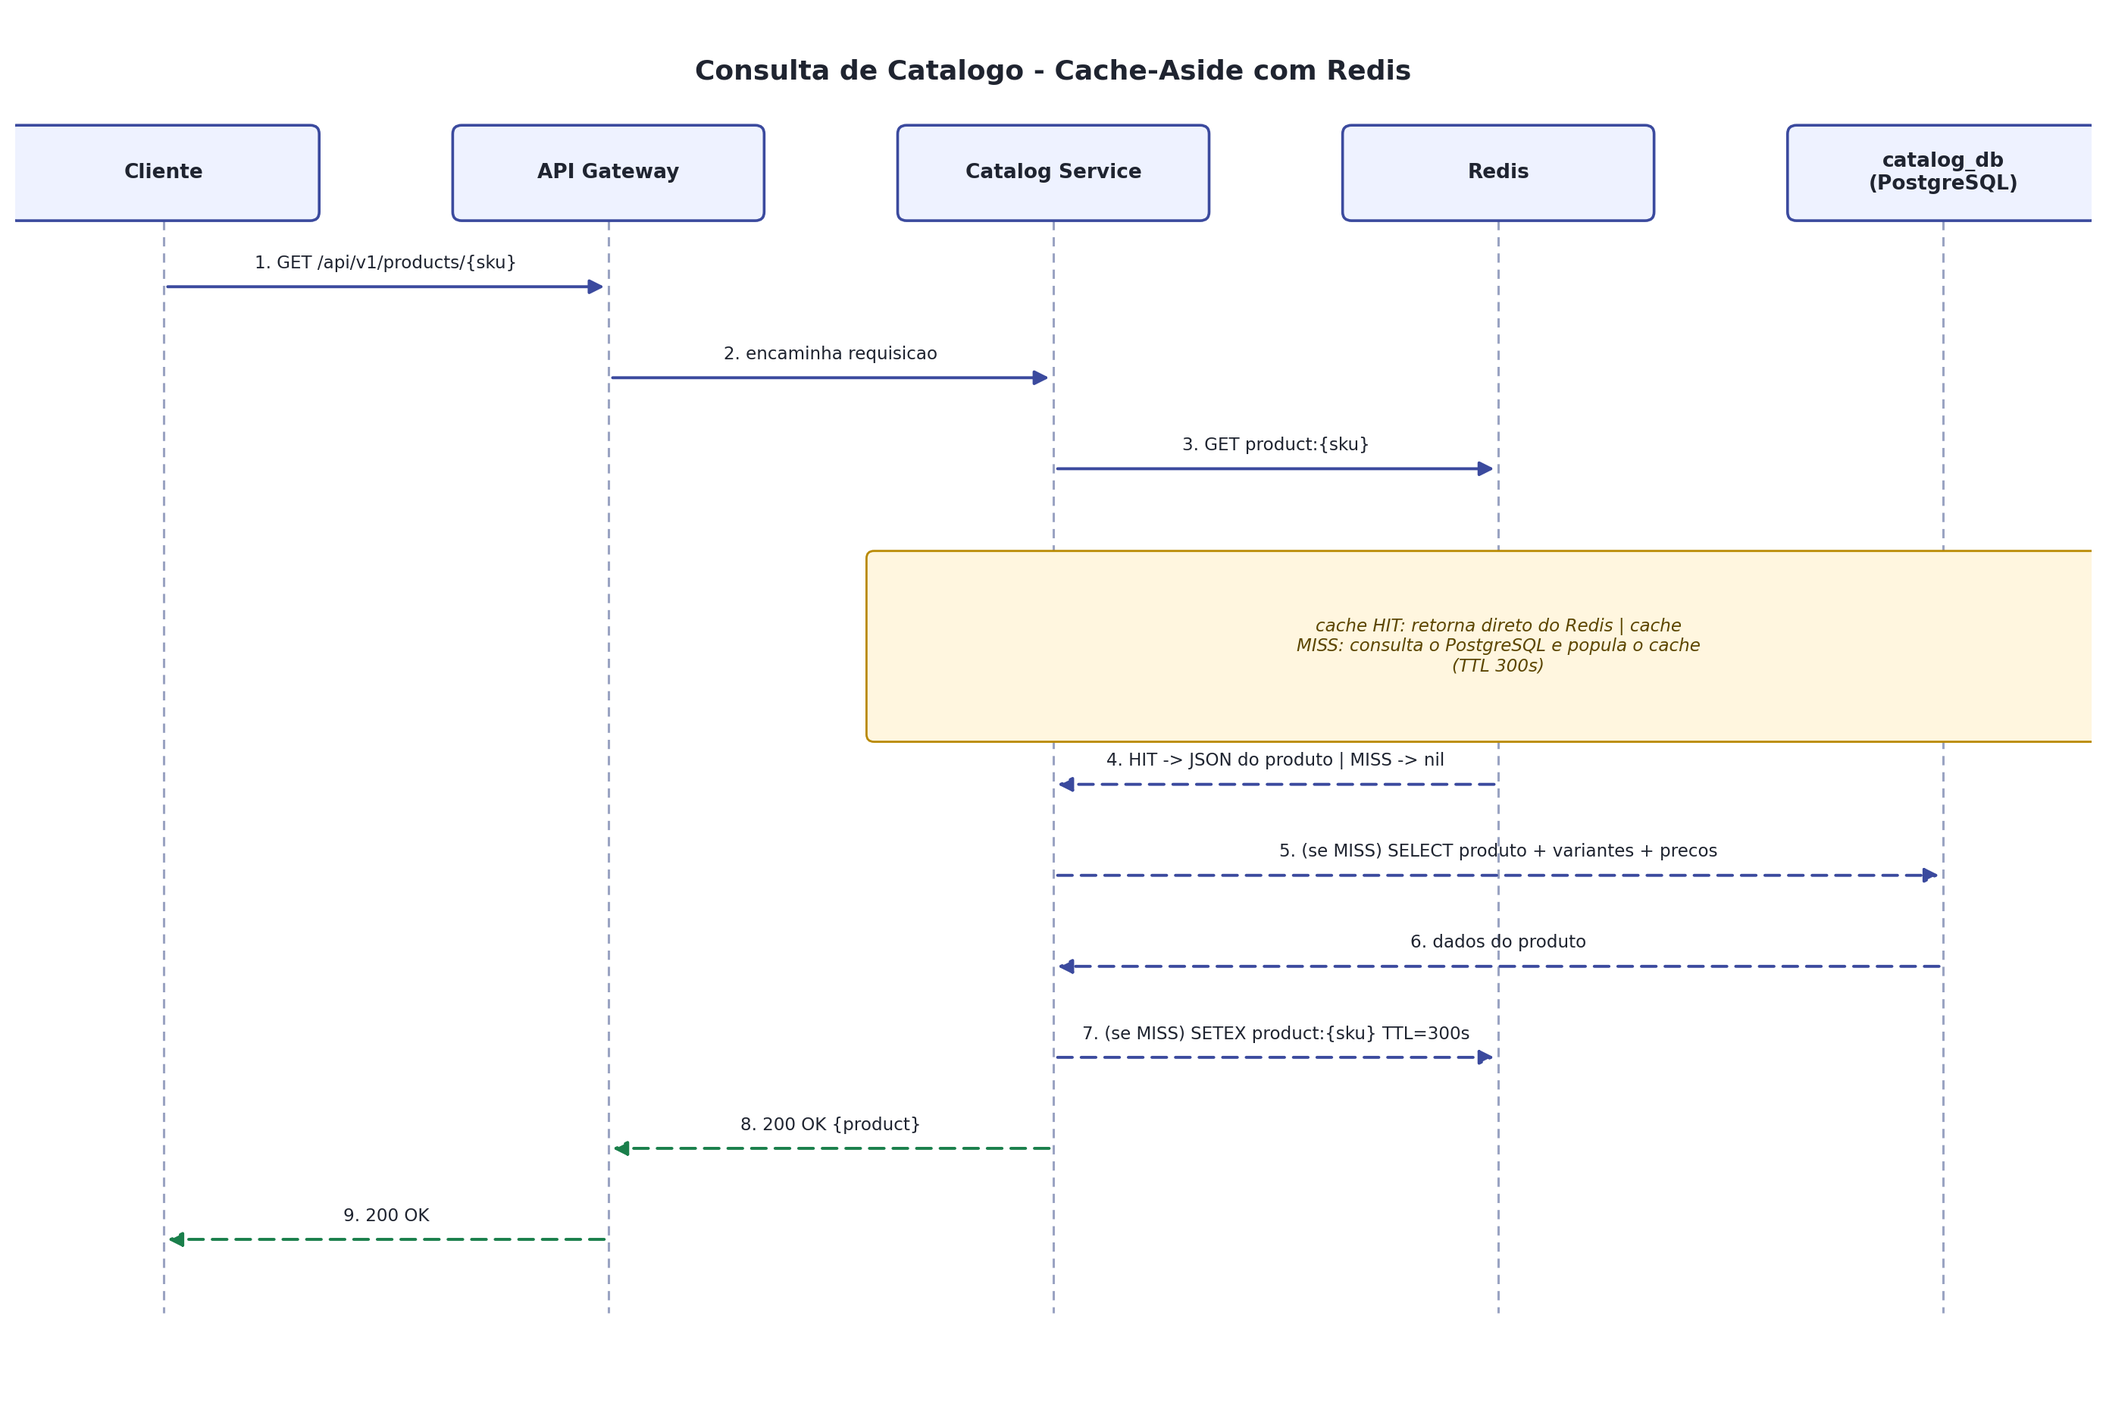
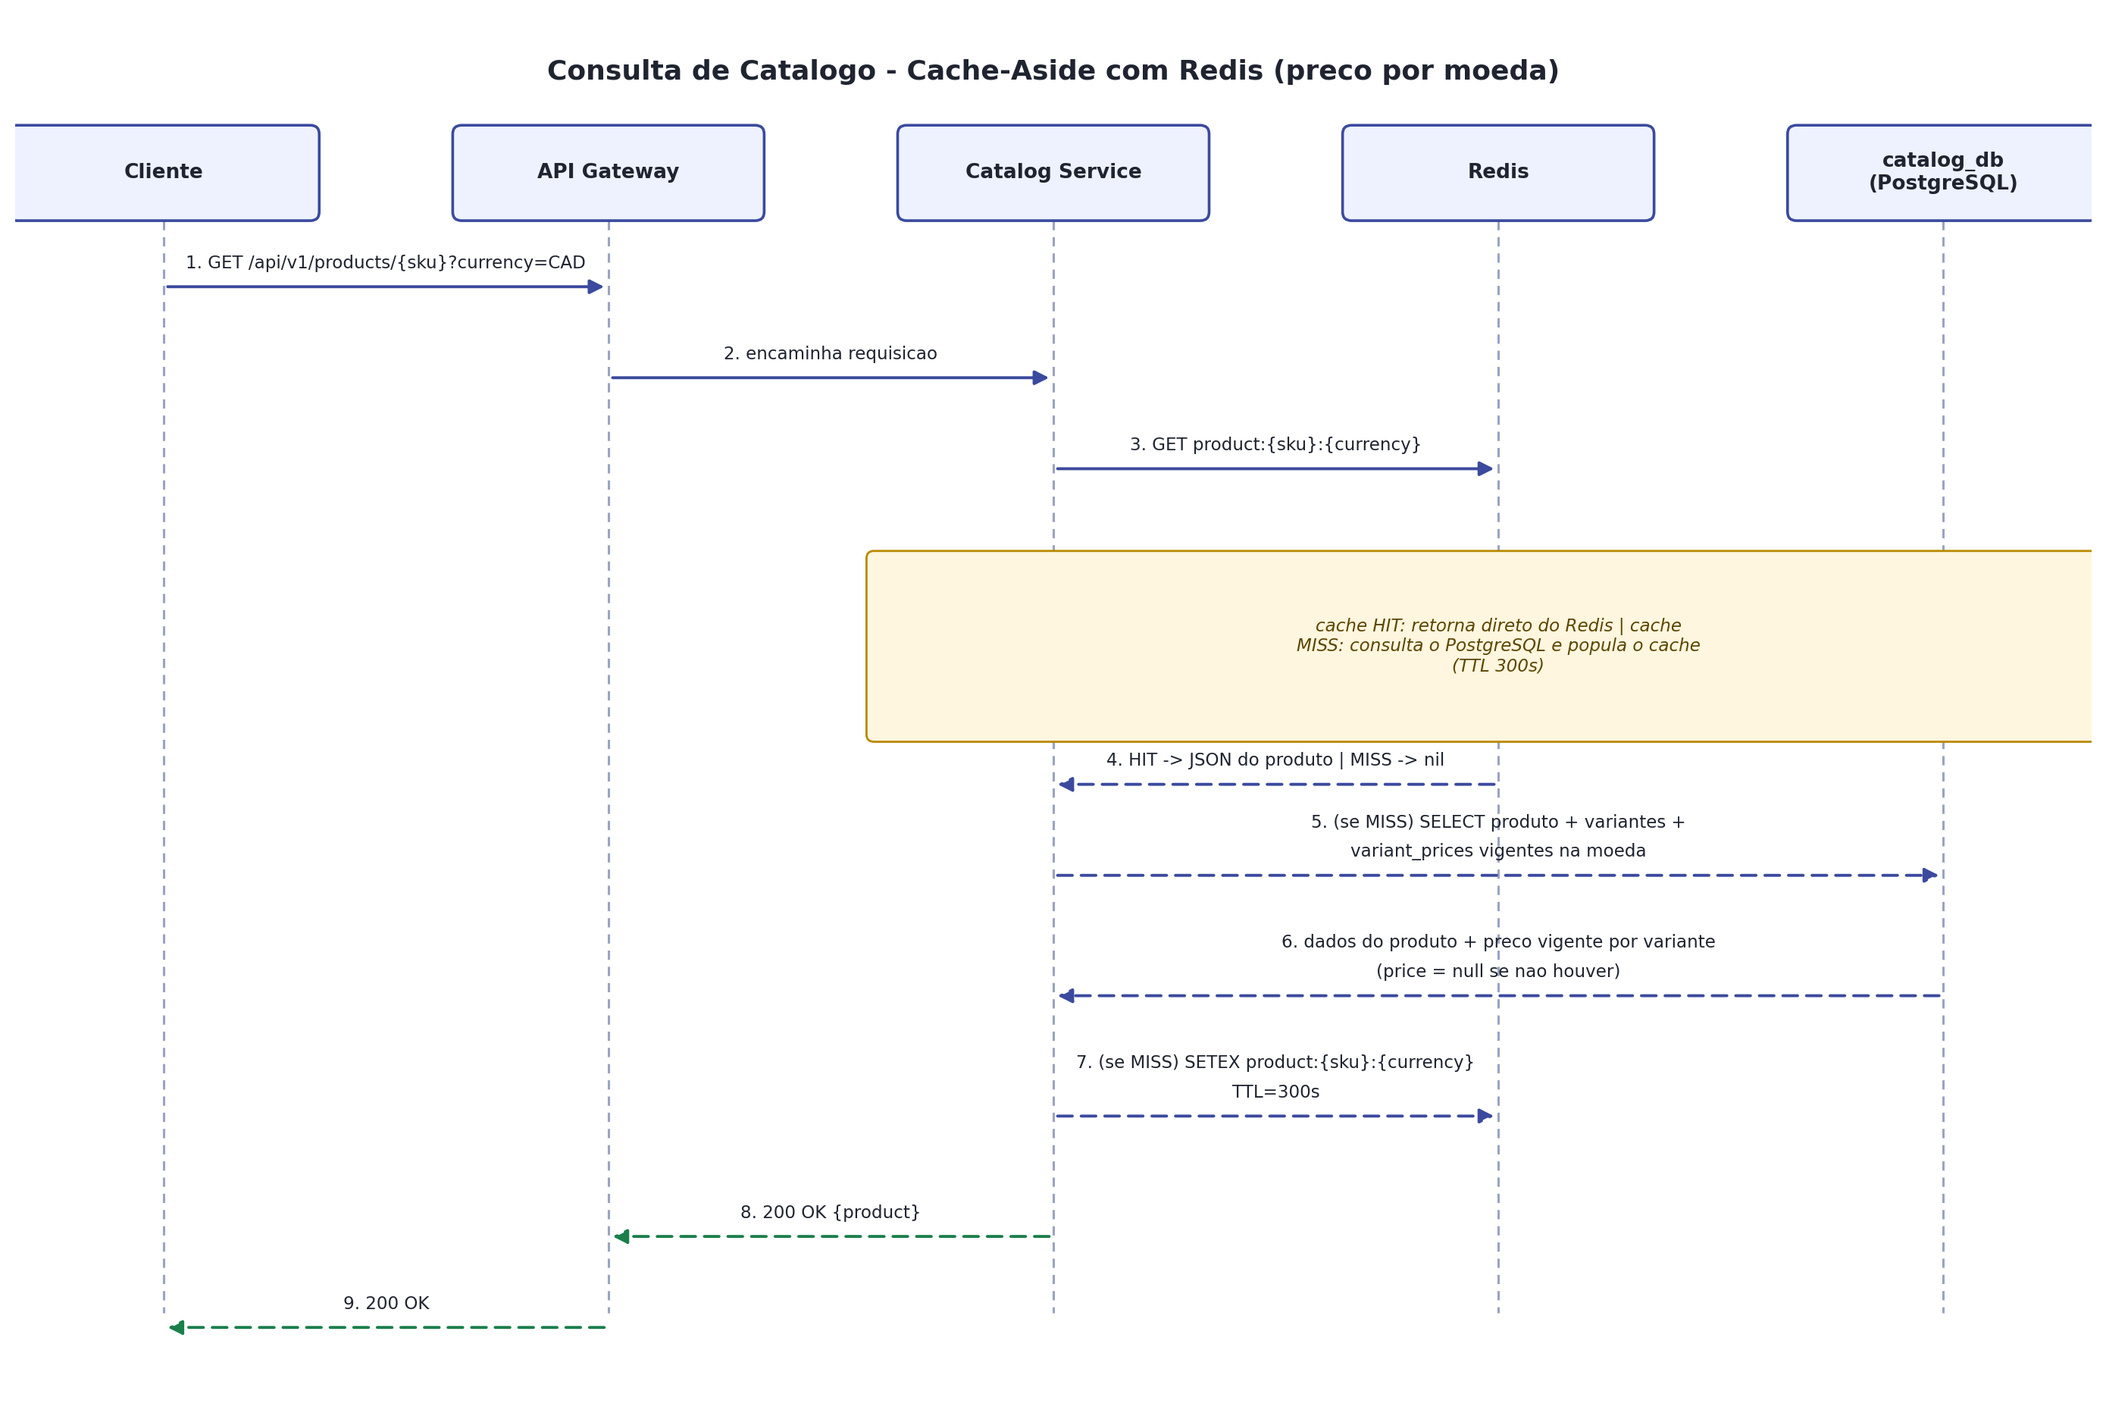
Adjusting price history

diff --git a/docs/architecture/OrbitCommerce-Arquitetura-Obsidian.md b/docs/architecture/OrbitCommerce-Arquitetura-Obsidian.md
@@ -596,10 +596,10 @@ Resposta: `204 No Content` _Erros:_ `401` não autenticado · `403` usuário aut
 
 #### 3.3.1 Responsabilidades
 
-- Manutenção do catálogo de categorias, produtos e variantes (SKUs) com seus preços vigentes.
+- Manutenção do catálogo de categorias, produtos e variantes (SKUs) com seus preços vigentes, **um por moeda** <!-- [NOVO] a variante é identidade; o preço vive em `variant_prices` -->.
 - Exposição de busca e listagem paginada de produtos para o frontend, com alta taxa de leitura.
 - Cache-aside em Redis para reduzir latência e carga no banco em consultas de produto individual.
-- Manutenção de histórico de preços para fins de auditoria e exibição de "preço anterior".
+- Manutenção de histórico de preços **por moeda** para fins de auditoria e exibição de "preço anterior" <!-- [NOVO] o histórico são as linhas encerradas de `variant_prices` -->.
 - Publicação de eventos de alteração de preço/estoque de catálogo consumidos por outros serviços (ex.: invalidação de cache de terceiros, motor de busca).
 
 #### 3.3.2 Stack Específica
@@ -608,7 +608,7 @@ Resposta: `204 No Content` _Erros:_ `401` não autenticado · `403` usuário aut
 |---|---|
 |Framework|Spring Boot 4 (Spring Web MVC, Spring Data JPA)|
 |Banco de dados|PostgreSQL 16 — schema `catalog_db`|
-|Cache|Redis — chave `product:{sku}`, TTL 300s, invalidação ativa em updates|
+|Cache|Redis — chave `product:{sku}:{currency}` <!-- [NOVO] chave por moeda -->, TTL 300s, invalidação ativa em updates (cadastro, atualização e encerramento de preço invalidam a chave da moeda afetada)|
 |Busca (evolução futura)|Desenhado para admitir indexação em Elasticsearch/Amazon OpenSearch Service sem alterar o modelo de domínio|
 
 ```mermaid
@@ -635,11 +635,10 @@ classDiagram
         +Instant updatedAt
     }
 
+    %% [ATUALIZADO] priceCents/currency removidos da variante — o preço agora vive em VariantPrice (um por moeda)
     class ProductVariant {
         +UUID id
         +UUID productId
-        +Long priceCents
-        +String currency
         +String stockKeepingUnit
     }
 
@@ -659,9 +658,11 @@ classDiagram
         +Integer position
     }
 
-    class PriceHistory {
+    %% [NOVO] substitui PriceHistory: uma linha por variante+moeda+período; effectiveTo nulo = sem data de fim
+    class VariantPrice {
         +UUID id
         +UUID productVariantId
+        +String currency
         +Long priceCents
         +Instant effectiveFrom
         +Instant effectiveTo
@@ -679,7 +680,7 @@ classDiagram
     Product "1" --> "1..*" ProductVariant
     Product "1" --> "0..*" ProductImage
     ProductVariant "1" --> "1..*" VariantAttribute
-    ProductVariant "1" --> "0..*" PriceHistory
+    ProductVariant "1" --> "0..*" VariantPrice
     Product ..> ProductStatus
 ```
 
@@ -713,8 +714,7 @@ CREATE TABLE product_variants (
     id UUID PRIMARY KEY DEFAULT gen_random_uuid(),
     product_id UUID NOT NULL REFERENCES products(id) ON DELETE CASCADE,
     -- [ATUALIZADO] attribute_name/attribute_value removidos daqui — ver variant_attributes abaixo
-    price_cents BIGINT NOT NULL,
-    currency CHAR(3) NOT NULL DEFAULT 'CAD',
+    -- [ATUALIZADO] price_cents/currency removidos daqui — ver variant_prices abaixo
     stock_keeping_unit VARCHAR(40) NOT NULL UNIQUE
 );
 
@@ -736,12 +736,31 @@ CREATE TABLE product_images (
     position INT NOT NULL DEFAULT 0
 );
 
-CREATE TABLE price_history (
+-- [NOVO] necessário para usar UUID/CHAR em exclusion constraint com gist
+CREATE EXTENSION IF NOT EXISTS btree_gist;
+
+-- [NOVO] substitui price_history: 1 linha por variante + moeda + período de vigência.
+-- Preço vigente = effective_from <= now() AND (effective_to IS NULL OR effective_to > now()).
+-- Linhas com effective_to no passado formam o histórico. Sem linha vigente para uma moeda,
+-- a variante não é vendida naquela moeda.
+CREATE TABLE variant_prices (
     id UUID PRIMARY KEY DEFAULT gen_random_uuid(),
     product_variant_id UUID NOT NULL REFERENCES product_variants(id) ON DELETE CASCADE,
-    price_cents BIGINT NOT NULL,
+    currency CHAR(3) NOT NULL, -- ISO 4217 (CAD, USD, BRL...)
+    price_cents BIGINT NOT NULL CHECK (price_cents >= 0),
     effective_from TIMESTAMPTZ NOT NULL,
-    effective_to TIMESTAMPTZ
+    effective_to TIMESTAMPTZ, -- NULL = sem data de fim
+    -- fim sempre posterior ao início
+    CONSTRAINT ck_variant_prices_period
+        CHECK (effective_to IS NULL OR effective_to > effective_from),
+    -- impede períodos sobrepostos para a mesma variante e moeda (cobre encerramento agendado);
+    -- o intervalo [) permite fechar a linha antiga e abrir a nova no mesmo instante
+    CONSTRAINT ex_variant_prices_no_overlap
+        EXCLUDE USING gist (
+            product_variant_id WITH =,
+            currency WITH =,
+            tstzrange(effective_from, effective_to, '[)') WITH &&
+        )
 );
 ```
 
@@ -752,7 +771,7 @@ erDiagram
     PRODUCTS ||--o{ PRODUCT_VARIANTS : "1:N"
     PRODUCT_VARIANTS ||--o{ VARIANT_ATTRIBUTES : "1:N"
     PRODUCTS ||--o{ PRODUCT_IMAGES : "1:N"
-    PRODUCT_VARIANTS ||--o{ PRICE_HISTORY : "1:N"
+    PRODUCT_VARIANTS ||--o{ VARIANT_PRICES : "1:N"
 
     CATEGORIES {
         UUID id PK
@@ -777,8 +796,6 @@ erDiagram
     PRODUCT_VARIANTS {
         UUID id PK
         UUID product_id FK
-        BIGINT price_cents
-        CHAR currency
         VARCHAR stock_keeping_unit UK
     }
 
@@ -797,12 +814,13 @@ erDiagram
         INT position
     }
 
-    PRICE_HISTORY {
+    VARIANT_PRICES {
         UUID id PK
         UUID product_variant_id FK
+        CHAR currency
         BIGINT price_cents
         TIMESTAMPTZ effective_from
-        TIMESTAMPTZ effective_to
+        TIMESTAMPTZ effective_to "nullable"
     }
 ```
 
@@ -810,7 +828,9 @@ erDiagram
 
 #### 3.3.6 Especificação de API
 
-**`GET /api/v1/products`** — Lista produtos com paginação e filtros. _Query params:_ `page` (int, padrão 0) · `size` (int, padrão 20, máx. 100) · `categorySlug` (string, opcional) · `q` (string, busca textual, opcional)
+**`GET /api/v1/products`** — Lista produtos com paginação e filtros. _Query params:_ `page` (int, padrão 0) · `size` (int, padrão 20, máx. 100) · `categorySlug` (string, opcional) · `q` (string, busca textual, opcional) · `currency` (string ISO 4217, opcional, padrão `CAD`) <!-- [NOVO] -->
+
+<!-- [NOVO] --> `priceCents`/`currency` na resposta são o menor preço vigente entre as variantes do produto na moeda solicitada; produtos sem preço vigente nessa moeda não aparecem na listagem.
 
 ```json
 // RESPONSE 200 OK
@@ -821,7 +841,7 @@ erDiagram
 }
 ```
 
-**`GET /api/v1/products/{sku}`** — Detalha um produto por SKU, com variantes, imagens e preço vigente. Consulta cache-aside (ver [[#4.4 Consulta de Catálogo com Cache Redis|Figura 4.4]]).
+**`GET /api/v1/products/{sku}`** — Detalha um produto por SKU, com variantes, imagens e preço vigente na moeda solicitada (_query param_ `currency`, opcional, padrão `CAD`) <!-- [NOVO] -->. Consulta cache-aside (ver [[#4.4 Consulta de Catálogo com Cache Redis|Figura 4.4]]).
 
 ```json
 // RESPONSE 200 OK
@@ -831,10 +851,12 @@ erDiagram
   "category": { "id": "uuid", "name": "string", "slug": "string" },
   "variants": [ { "id": "uuid",
     "attributes": [ { "name": "size", "value": "M" }, { "name": "color", "value": "azul" } ],
-    "priceCents": 12990, "currency": "CAD", "sku": "string" } ],
+    "price": { "priceCents": 12990, "currency": "CAD" }, "sku": "string" } ],
   "images": [ { "url": "string", "altText": "string", "position": 0 } ]
 }
 ```
+
+<!-- [NOVO] --> `variants[].price` é `null` quando a variante não tem preço vigente na moeda solicitada (não vendável nessa moeda).
 
 _Erros:_ `404` produto não encontrado
 
@@ -846,26 +868,44 @@ _Erros:_ `404` produto não encontrado
   "sku": "string", "name": "string", "description": "string",
   "categoryId": "uuid", "brand": "string",
   "variants": [ { "attributes": [ { "name": "size", "value": "M" }, { "name": "color", "value": "azul" } ],
-    "priceCents": 12990, "currency": "CAD", "stockKeepingUnit": "string" } ]
+    "prices": [ { "currency": "CAD", "priceCents": 12990 }, { "currency": "USD", "priceCents": 9990 } ],
+    "stockKeepingUnit": "string" } ]
 }
 ```
 
 Resposta: `201 Created`, corpo igual ao GET por SKU _Erros:_ `400` validação · `403` sem permissão · `409` SKU duplicado
 
-**`PUT /api/v1/products/{sku}/variants/{variantId}/price`** — Atualiza o preço de uma variante; a alteração fecha o registro vigente em `price_history` e abre um novo, além de invalidar o cache Redis daquele produto.
+<!-- [NOVO] --> `prices[]` é opcional e aceita uma entrada por moeda (cada uma vira uma linha de `variant_prices` com `effective_from = now()`); moeda repetida ou fora do padrão ISO 4217 retorna `422`.
+
+<!-- [ATUALIZADO] rota agora é por moeda; o body não carrega mais `currency` (vem do path) -->
+**`PUT /api/v1/products/{sku}/variants/{variantId}/prices/{currency}`** — Cadastra ou atualiza o preço de uma variante em uma moeda. Sem preço vigente nessa moeda: cria a linha em `variant_prices` com `effective_from = now()`. Com preço vigente: fecha a linha vigente (`effective_to = now()`) e abre uma nova, na mesma transação. Valor igual ao vigente: sem alteração. Em todos os casos invalida a chave de cache `product:{sku}:{currency}`. Requer `ROLE_ADMIN` ou `ROLE_SELLER`.
 
 ```json
 // REQUEST BODY
-{ "priceCents": 11990, "currency": "CAD" }
+{ "priceCents": 11990 }
 ```
 
-Resposta: `200 OK`
+Resposta: `201 Created` (primeiro preço da moeda) ou `200 OK` (atualização) _Erros:_ `400` valor inválido · `403` sem permissão · `404` produto ou variante não encontrados · `422` moeda fora do padrão ISO 4217
+
+<!-- [NOVO] -->
+**`PATCH /api/v1/products/{sku}/variants/{variantId}/prices/{currency}`** — Encerra o preço vigente de uma moeda **sem registrar novo valor** (ex.: a variante deixa de ser vendida nessa moeda). Apenas define o `effective_to` da linha vigente; o histórico é preservado. Se `effectiveTo` for omitido, assume `now()`; uma data futura agenda o encerramento. Invalida a chave de cache `product:{sku}:{currency}`. Requer `ROLE_ADMIN` ou `ROLE_SELLER`.
+
+```json
+// REQUEST BODY
+{ "effectiveTo": "2026-12-31T23:59:59Z" }
+```
+
+Resposta: `200 OK` _Erros:_ `403` sem permissão · `404` nenhum preço vigente nessa moeda · `409` preço já encerrado · `422` `effectiveTo` anterior ou igual ao `effective_from` da linha vigente
+
+> [!note] Reativar uma moeda
+> Para voltar a vender em uma moeda encerrada, basta um novo `PUT` na mesma rota: ele cria uma nova linha de `variant_prices`. O intervalo entre o encerramento e a nova linha permanece como lacuna no histórico.
 
 #### 3.3.7 Eventos
 
 |Direção|Canal|Nome|Quando|
 |---|---|---|---|
-|Publica|Kafka — tópico `catalog.price-changed`|`PriceChangedEvent`|Após atualização de preço de uma variante.|
+|Publica|Kafka — tópico `catalog.price-changed`|`PriceChangedEvent`|Após atualização do preço de uma variante em uma moeda (`oldPriceCents` nulo quando é o primeiro preço daquela moeda). <!-- [ATUALIZADO] -->|
+|Publica|Kafka — tópico `catalog.price-ended`|`PriceEndedEvent`|Após o encerramento do preço de uma variante em uma moeda, sem novo valor. <!-- [NOVO] -->|
 |Publica|Kafka — tópico `catalog.product-status-changed`|`ProductStatusChangedEvent`|Quando um produto é descontinuado/reativado (afeta a possibilidade de criação de novos pedidos).|
 
 ---
@@ -1125,6 +1165,7 @@ erDiagram
 ```json
 // REQUEST BODY
 {
+  "currency": "CAD", // [NOVO] moeda em que o cliente quer pagar; precisa ter preço vigente para todos os itens
   "items": [ { "productVariantId": "uuid", "quantity": 2 } ],
   "shippingAddress": {
     "street": "string", "city": "string", "state": "string",
@@ -1139,7 +1180,7 @@ erDiagram
   "currency": "CAD", "createdAt": "date-time" }
 ```
 
-_Erros:_ `400` itens inválidos/vazios · `401` não autenticado · `409` Idempotency-Key já processada com corpo diferente
+_Erros:_ `400` itens inválidos/vazios · `401` não autenticado · `409` Idempotency-Key já processada com corpo diferente · `422` algum item não tem preço vigente na moeda solicitada <!-- [NOVO] -->
 
 **`GET /api/v1/orders/{orderId}`** — Consulta detalhes e status atual de um pedido, incluindo itens e histórico de status.
 
@@ -1837,13 +1878,13 @@ Esta seção detalha, passo a passo, os quatro fluxos de execução mais importa
 
 ### 4.1 Autenticação e Validação de Token
 
-![!\[\[30-seq-login.png\]\]](img/30-seq-login.png)
+![[30-seq-login.png]]
 
 > [!info]- Figura 4.1 — Sequência de Login e Validação de Token Fluxo de login emitindo par de tokens (access + refresh), seguido de uma requisição subsequente autenticada, ilustrando a validação local de JWT no Gateway (via JWKS) combinada com verificação de sessão ativa no Identity Service.
 
 ### 4.2 Criação de Pedido — Saga (Caminho Feliz)
 
-![[31-seq-place-order-happy.png]](img/31-seq-place-order-happy.png)
+![[31-seq-place-order-happy.png]]
 
 > [!info]- Figura 4.2 — Sequência completa da Saga de Criação de Pedido (caminho feliz) Fluxo completo desde a requisição do cliente até a notificação de confirmação, passando pelas três etapas coordenadas da saga: reserva de estoque, autorização de pagamento e criação de remessa.
 > 
@@ -1851,7 +1892,7 @@ Esta seção detalha, passo a passo, os quatro fluxos de execução mais importa
 
 ### 4.3 Saga — Fluxo de Compensação
 
-![[32-seq-saga-compensation.png]](img/32-seq-saga-compensation.png)
+![[32-seq-saga-compensation.png]]
 
 > [!info]- Figura 4.3 — Sequência de Compensação da Saga (falha no pagamento) Cenário em que o gateway de pagamento recusa a transação após o estoque já ter sido reservado. O Order Service detecta a falha via evento `payment.failed`, transiciona a saga para `COMPENSATING` e dispara o comando de liberação de estoque, finalizando o pedido em `FAILED` apenas após a confirmação de que a compensação foi aplicada.
 
@@ -1859,9 +1900,9 @@ Esta seção detalha, passo a passo, os quatro fluxos de execução mais importa
 
 ### 4.4 Consulta de Catálogo com Cache Redis
 
-![[33-seq-catalog-cache.png]](img/33-seq-catalog-cache.png)
+![[33-seq-catalog-cache.png]]
 
-> [!info]- Figura 4.4 — Sequência de Leitura de Produto com Cache-Aside Padrão cache-aside aplicado à leitura de produto individual, com TTL de 300 segundos e fallback transparente ao PostgreSQL em caso de cache miss.
+> [!info]- Figura 4.4 — Sequência de Leitura de Produto com Cache-Aside Padrão cache-aside aplicado à leitura de produto individual, com TTL de 300 segundos e fallback transparente ao PostgreSQL em caso de cache miss. <!-- [ATUALIZADO] a chave de cache é por moeda (`product:{sku}:{currency}`) e o SELECT do cache miss lê `variant_prices` vigentes na moeda solicitada -->
 
 ---
 
@@ -1886,7 +1927,8 @@ Todo evento publicado no Kafka e todo comando publicado no RabbitMQ segue um env
 |Tópico|Partição/Chave|Produtor|Consumidores|Payload (principais campos)|
 |---|---|---|---|---|
 |`user.registered`|`userId`|Identity|Notification|`userId`, `fullName`, `email`|
-|`catalog.price-changed`|`productVariantId`|Catalog|(extensível: motor de busca)|`productVariantId`, `oldPriceCents`, `newPriceCents`, `currency`|
+|`catalog.price-changed`|`productVariantId`|Catalog|(extensível: motor de busca)|`productVariantId`, `oldPriceCents` (nulo no primeiro preço da moeda), `newPriceCents`, `currency`|
+|`catalog.price-ended`|`productVariantId`|Catalog|(extensível: motor de busca)|`productVariantId`, `currency`, `effectiveTo` <!-- [NOVO] -->|
 |`catalog.product-status-changed`|`productId`|Catalog|Order (validação em criação de pedido)|`productId`, `status`|
 |`order.created`|`orderId`|Order|Inventory|`orderId`, `customerId`, `items[{productVariantId, quantity}]`|
 |`inventory.reserved`|`orderId`|Inventory|Order|`orderId`, `reservations[{productVariantId, warehouseId, quantity}]`|
